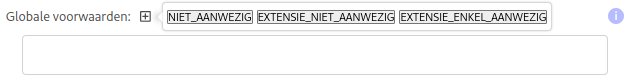
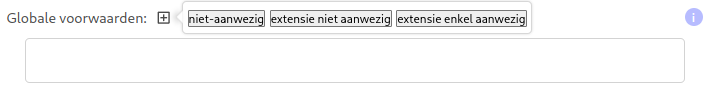
docs aanpassen naar bugfix

diff --git a/docs/simple_constraints.md b/docs/simple_constraints.md
@@ -22,36 +22,42 @@ Door met de muis over het archief te slepen, kunnen er bestanden of mappen aan w
 
 ![hover_zip.png](images/hover_zip.png)
 
-Namen die vetgedrukt zijn, stellen mappen voor. Namen in normale tekst zijn bestanden.
-
 ![map_bestand_lokaal.png](images/map_bestand_lokaal.png)
+
+Namen die vetgedrukt zijn, stellen mappen voor. Namen in normale tekst zijn bestanden.
 
 Lesgevers die nog meer controle willen over de indiening, kunnen met hun muis over de bestanden of mappen hoveren en op de drie puntjes klikken:
 
-![bestand_veranderen.png](images/bestand_veranderen.png)
+![[constraint_veranderen.png]]
 
-Door op `FOLDER` te klikken, kan een bestand worden veranderd in een map, zoals `mijn_map`.
+Door op `maak folder` te klikken, kan een bestand worden veranderd in een map, zoals `mijn_map`.
 
-`NIET_AANWEZIG` zorgt ervoor dat dit bestand niet aanwezig mag zijn in de map waarin de beperking is gedefinieerd (hier `archief_naam.zip`), maar mogelijk wel in andere mappen:
+`niet aanwezig` zorgt ervoor dat dit bestand niet aanwezig mag zijn in de map waarin de beperking is gedefinieerd (hier `archief_naam.zip`), maar mogelijk wel in andere mappen:
 
-![niet_aanwezig.png](images/niet_aanwezig.png)
+![[verboden.png]]
 
-`EXTENSIE_NIET_AANWEZIG` zorgt ervoor dat een bepaalde extensie niet aanwezig mag zijn in de map of het archief waarin de beperking is gedefinieerd:
+`extensie niet aanwezig` zorgt ervoor dat een bepaalde extensie niet aanwezig mag zijn in de map of het archief waarin de beperking is gedefinieerd:
 
-![extensie_niet_aanwezig.png](images/extensie_niet_aanwezig.png)
+![[extensie_verboden.png]]
+
+`extensie enkel aanwezig` zel er voor zorgen dat enkel de gegeven extensie in de map aanwezig mag zijn:
+
+![[alleen_extensie.png]]
+
 
 ## Globale voorwaarden
 
 Soms is het nodig om een beperking over de volledige indiening te definiëren. Dit kan in de sectie `globale voorwaarden`.
 
-![global.png](images/global.png)
+![[global.png]]
 
-Men kan vastleggen welke bestanden of extensies niet aanwezig mogen zijn met `NIET_AANWEZIG` en `EXTENSIE_NIET_AANWEZIG`. Men kan ook afdwingen dat enkel een bepaalde extensie aanwezig mag zijn over het hele project (mappen niet meegerekend).
+Men kan vastleggen welke bestanden of extensies niet aanwezig mogen zijn met `niet-aanwezig` en `extensie niet aanwezig`. Men kan ook afdwingen dat enkel een bepaalde extensie aanwezig mag zijn over het hele project (mappen niet meegerekend).
 
 ## Voorbeeld
 
-![voorbeeld.png](images/voorbeeld.png)
+![[voorbeeld.png]]
 
-Dit is een zip-indiening waarbij er zeker een extra, src, src/frontend en src/backend map aanwezig moet zijn. In de extra map moet een verslag aanwezig zijn. In de frontend map mag geen node_modules map aanwezig zijn.
 
-Globaal gezien mogen er nergens `.class` bestanden of `malware.exe` aanwezig zijn.
+Dit is een zip-indiening waarbij er zeker een `verslag.pdf`, `src`, `src/frontend` en `src/backend` map aanwezig moet zijn.  In de frontend map mag geen `node_modules` aanwezig zijn. De backend map mag enkel `*.py` bestanden bevatten*
+
+Globaal gezien mogen er nergens `.class` bestanden of een `malware.exe` aanwezig zijn.
